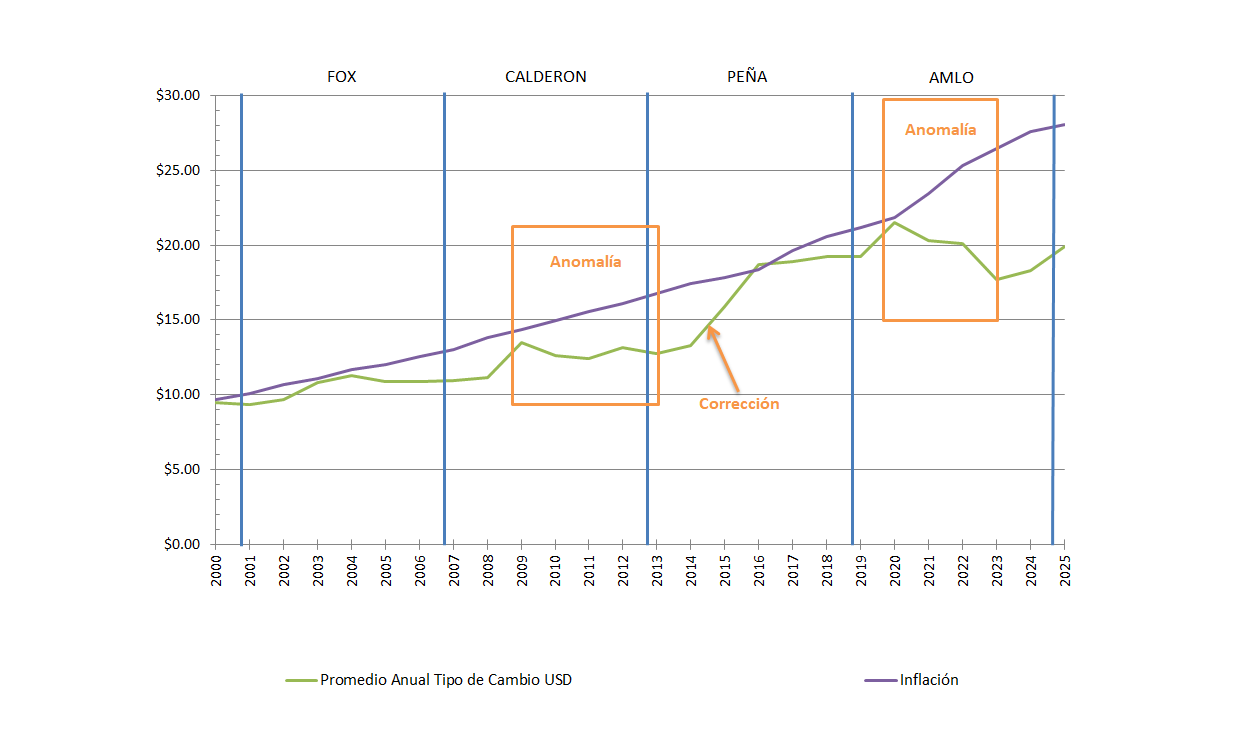
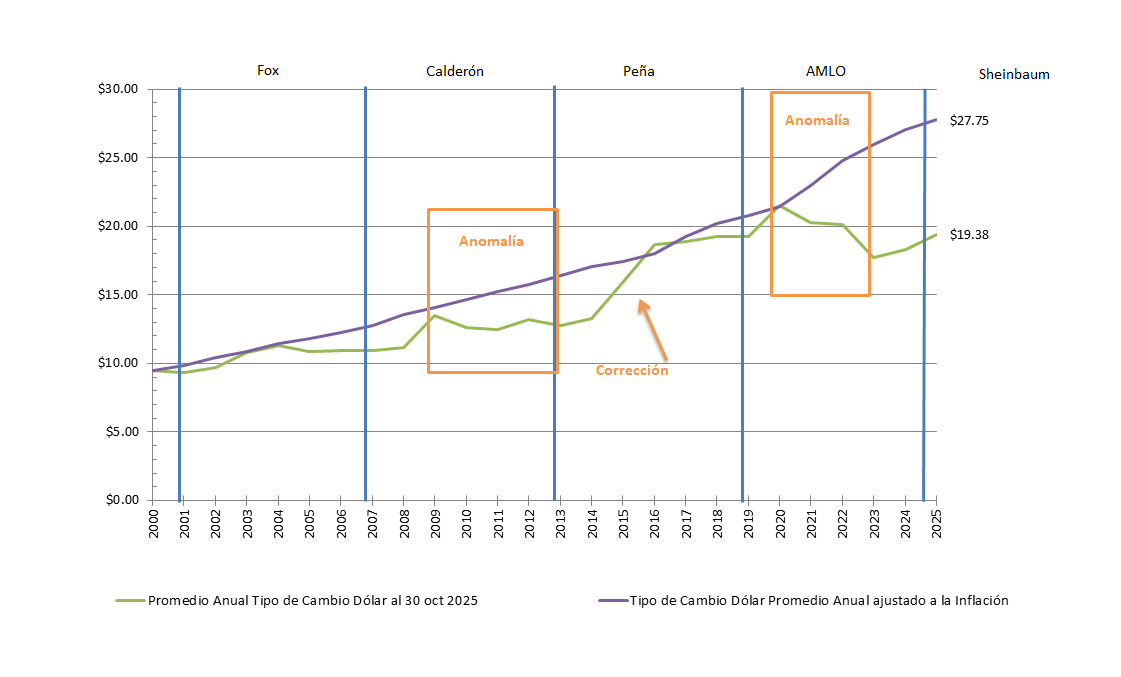
Add files via upload

diff --git a/index.html b/index.html
@@ -4,10 +4,32 @@
 <head>
   <meta charset="UTF-8" />
   <meta name="viewport" content="width=device-width, initial-scale=1.0" />
-  <meta name="description" content="Explora datos económicos y sociales de México por sexenio presidencial. Consulta estadísticas de PIB, deuda pública, inflación, pobreza y más, con fuentes oficiales (INEGI, BANXICO)." />
-  <title>Datos Sin Vaselina: Datos Económicos y Sociales por Sexenio (PIB, Deuda, Inflación)</title>
+
+  <title>Homicidios México 2025, Deuda Pública, Inflación y Remesas | Datos Sin Vaselina</title>
+
+  <meta name="description" content="Datos oficiales 2025 sin maquillaje: homicidios dolosos reclasificados, deuda pública por sexenio (+860%), inflación AMLO, remesas récord y pobreza CONEVAL. Fuentes: INEGI, BANXICO, SESNSP." />
+
+<!-- PALABRAS CLAVE (aún funcionan en 2025 para búsquedas mexicanas) -->
+<meta name="keywords" content="homicidios 2025, homicidios dolosos México, deuda pública México 2025, inflación por sexenio, remesas 2025, pobreza México, PIB por sexenio, Datos Sin Vaselina, SESNSP, INEGI, BANXICO" />
+
+<!-- OPEN GRAPH (para que en WhatsApp, X, Facebook y Telegram salga precioso) -->
+  <meta property="og:title" content="Homicidios México 2025, Deuda Pública e Inflación | Datos Sin Vaselina" />
+  <meta property="og:description" content="El truco de los homicidios 2025, deuda +860% y los datos que nadie publica. Todo con fuentes oficiales." />
+  <meta property="og:image" content="https://vltimor.github.io/datos-sin-vaselina/imagen-portada.jpg" /> <!-- crea esta imagen 1200x630 con tu gráfica más fuerte -->
+  <meta property="og:url" content="https://vltimor.github.io/datos-sin-vaselina/" />
+  <meta property="og:type" content="website" />
+  <meta property="og:locale" content="es_MX" />
+  
+  <!-- TWITTER CARDS (X) -->
+  <meta name="twitter:card" content="summary_large_image" />
+  <meta name="twitter:title" content="Homicidios México 2025, Deuda e Inflación | Datos Sin Vaselina" />
+  <meta name="twitter:description" content="Datos oficiales sin vaselina: el truco de los homicidios, deuda récord y más." />
+  <meta name="twitter:image" content="https://vltimor.github.io/datos-sin-vaselina/imagen-portada.jpg" />
+  
+  <!-- FAVICON (opcional pero profesional) -->
+  <link rel="icon" href="https://vltimor.github.io/datos-sin-vaselina/favicon.ico" type="image/x-icon" />
+
   <link rel="stylesheet" href="styles.css">
-  <meta name="keywords" content="datos económicos México, sexenios, deuda pública, inflación, pobreza, PIB, AMLO, Fox, Calderón, Peña, Sheinbaum">
   <meta name="author" content="Datos Sin Vaselina">
   <link rel="canonical" href="https://vltimor.github.io/datos-sin-vaselina/">
   <style>
@@ -24,10 +46,20 @@
 canvas { max-width: 100%; height: auto; }
     .container { width: 90%; margin: auto; font-family: Arial; }
   </style>
-</head>
+
+<!-- Google tag (gtag.js) -->
+<script async src="https://www.googletagmanager.com/gtag/js?id=G-539R7EQE3N"></script>
+<script>
+  window.dataLayer = window.dataLayer || [];
+  function gtag(){dataLayer.push(arguments);}
+  gtag('js', new Date());
+
+  gtag('config', 'G-539R7EQE3N');
+</script>
 
 <!--  Librería Javascript para gráficos -->
 <script src="https://cdn.jsdelivr.net/npm/chart.js"></script>
+</head>
 
 <body>
     <header id="inicio">
@@ -59,6 +91,71 @@ canvas { max-width: 100%; height: auto; }
             <h2 id="titulo-seccion">Publicaciones Recientes</h2>
             
             <div id="contenedor-publicaciones">
+
+                <div class="publicacion" data-categoria="Inflación"  id="anomalia">
+<h2 style="text-align:center; color:#c0392b;">
+Análisis: El Desacoplamiento entre el Tipo de Cambio y la Inflación<br>
+    <small style="color:#555;">Relación con Protestas Campesinas</small>
+</h2>
+                    <p class="fecha-publicacion">Actualizado el: 04 de diciembre de 2025</p>
+
+<img src="Tipo_Cambio_Inflacion.png" alt="Gráfico que muestra la anomalía entre el tipo de cambio USD/MXN y la inflación en México" width="100%" height="">
+<p>
+<strong>Fuentes:</strong><br>
+<a href="https://www.banxico.org.mx/SieInternet/consultarDirectorioInternetAction.do?sector=6&accion=consultarCuadro&idCuadro=CF102&locale=es">www.banxico.org.mx > Tipo de Cambio FIX</a><br>
+<a href="https://www.inegi.org.mx/app/indicesdepreciosv2/Estructura.aspx?idEstructura=112001600090&T=%C3%8Dndices%20de%20Precios%20al%20Consumidor&ST=INPC%20(mensual)">INPC - INEGI.</a><br>
+Tipo de cambio dólar “ajustado a la inflación”: promedio anual de 2000 expresado en pesos de cada año usando el INPC (INPC dic de cada año / INPC dic‑2000 × TC promedio 2000).
+</p>
+
+<p><strong>La línea morada muestra cuánto debería valer hoy el dólar si siguiera la trayectoria de precios internos desde 2000; la verde es el promedio anual observado.</strong></p>
+
+
+<p>El gráfico no miente: nunca el peso había estado tan fuerte para mantener relativamente baja la inflación (los gobiernos obradoristas tienen la inflación más elevada de este siglo):</p>
+
+<ul>
+<li>Promedio anual del dólar 2025 (Promedio enero‑octubre 2025 tipo de cambio fix Banxico): $19.38 pesos, cercano a niveles de 2019.</li>
+<li>Inflación noviembre 2025 (primera quincena): Alrededor de 3.6% anual.</li>
+</ul>
+
+<p>Este “desacoplamiento” entre tipo de cambio e inflación es la cara bonita de la moneda. La cara fea la pagan los productores mexicanos.</p>
+
+<p><strong>Un dólar barato = importaciones baratas = precios internos de granos colapsados.</strong> Resultado directo:</p>
+
+<ul>
+<li>Maíz blanco en el campo: menos de $3,500 pesos por tonelada (costo de producción $5,500–$6,000).</li>
+<li>Se proyectan importaciones históricamente altas de maíz para 2025.</li>
+<li>Precios de sorgo, trigo y frijol también en el suelo.</li>
+</ul>
+
+
+<p>Por eso el campo estalló. Desde octubre 2025, campesinos de al menos 17 estados han bloqueado carreteras, aduanas y vías férreas exigiendo precios de garantía y freno a las importaciones. El grito es el mismo en Sinaloa, Michoacán, Chihuahua o Zacatecas.</p>
+
+<p>Y no es sólo el campo. El mismo dólar barato que mantiene la inflación relativamente baja está destruyendo competitividad en:</p>
+
+<ul>
+<li>la industria automotriz (caída de exportaciones de vehículos cercana a -6 % interanual a octubre 2025),</li>
+<li>las maquiladoras del norte,</li>
+<li>el acero y los textiles.</li>
+</ul>
+
+<p>Consecuencia macro: las últimas proyecciones para el PIB 2025 rondan apenas el 0.5% y han sido recortadas por OCDE, Banxico y SHCP.
+México crece menos que casi toda América Latina porque su planta productiva está siendo sustituida por productos extranjeros que entran a precio de remate.</p>
+
+<p>El gráfico lo resume sin piedad, el mismo fenómeno que en la gráfica parece una buena noticia cambiaria es el que en el territorio se traduce en bloqueos y pérdidas:</p>
+
+<ul>
+<li>Línea verde (dólar) muy por debajo de la inflación → celebración oficial.</li>
+<li>Economía real (producción y empleo rural e industrial) cayendo → silencio oficial.</li>
+</ul>
+
+<p>Mientras el gobierno presume inflación controlada y salario mínimo al alza, el campo mexicano bloquea carreteras y la industria pierde terreno.
+El superpeso es un éxito contable… y una tragedia productiva.</p>
+
+<p style="text-align:center; color:#777; font-size:0.9em; margin-top:50px;">Datos: Banxico, INEGI, SADER, OCDE, Trending Economics.</p>
+
+<p class="back-to-top"><a href="#inicio">↑ Volver al inicio</a></p>
+
+                </div>
 
 <div class="publicacion" data-categoria="Energéticos" id="huachicol">
   <h2 style="text-align:center; color:#c0392b;">
@@ -679,40 +776,6 @@ El Saldo Histórico de los Requerimientos Financieros del Sector Público (SHRFS
     <p class="back-to-top"><a href="#inicio">↑ Volver al inicio</a></p>
 </div>
 
-
-
-
-
-                <div class="publicacion" data-categoria="Inflación" id="inflacion vs usd">
-<h2 id="anomalia">Análisis: El Desacoplamiento entre el Tipo de Cambio y la Inflación</h2>
-                    <p class="fecha-publicacion">Actualizado el: 09 de Julio de 2025</p>
-<p>
-El siguiente gráfico ilustra una divergencia notable que comenzó alrededor de 2021: mientras la inflación acumulada (línea morada) mantenía su 
-tendencia alcista, el tipo de cambio promedio (línea verde) comenzó a apreciarse, un fenómeno que se conoció popularmente como el "Super Peso".
-</p>
-<p>
-Este desacoplamiento no es inédito. Se observó un patrón similar entre 2009 y 2013, un periodo que también mostró un peso relativamente fuerte frente a 
-una inflación creciente. Como muestra la gráfica, aquel periodo fue seguido por una importante "corrección" o depreciación del peso, que alcanzó casi el 
-50% en los años siguientes. La historia sugiere que las divergencias prolongadas entre estos dos indicadores tienden a resolverse eventualmente, a 
-menudo con ajustes abruptos en el tipo de cambio.
-</p>
-<p>
-Esta distorsión del tipo de cambio también generó una percepción engañosa del crecimiento económico. Entre 2022 y 2023, medios y figuras políticas celebraron que 
-México se había convertido en la "economía número 12 del mundo" basándose en el PIB nominal medido en dólares. Sin embargo, este aparente ascenso fue 
-un espejismo causado por la fortaleza artificial del peso. Una métrica más fiable, el <strong>PIB por Paridad de Poder de Compra (PPC)</strong>, que ajusta las 
-diferencias en el costo de vida y anula las distorsiones cambiarias, mostró que México no mejoró su posición en el ranking mundial durante ese mismo 
-periodo. El FMI y el Banco Mundial utilizan el PPC precisamente para realizar comparaciones internacionales más justas.
-</p>
-<p>
-Si bien un tipo de cambio fuerte puede beneficiar temporalmente a los consumidores de bienes importados, presenta riesgos significativos para la 
-economía en general. Un "dólar barato" reduce la competitividad de las exportaciones mexicanas, encarece el turismo extranjero en el país y disminuye el 
-valor en pesos de las remesas que reciben millones de familias. Por el contrario, una moneda excesivamente débil erosiona el poder adquisitivo. El ideal no es 
-un tipo de cambio artificialmente "barato" o "caro", sino uno estable y competitivo que refleje los fundamentales económicos del país.
-</p>
-<img src="Tipo_Cambio_Inflacion.png" alt="Gráfico que muestra la anomalía entre el tipo de cambio USD/MXN y la inflación en México" width="100%" height="">
-<p class="back-to-top"><a href="#inicio">↑ Volver al inicio</a></p>
-<hr>
-                </div>
 
 <div class="publicacion" data-categoria="Empleo" id="empleo">
     <h2>Empleo y Salario Mínimo en México por Sexenio</h2>
